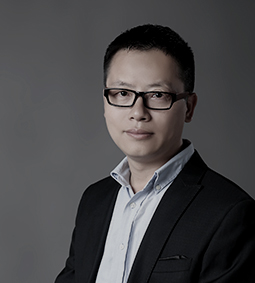
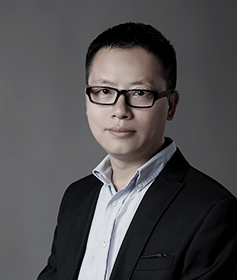
更改管理团队人物

diff --git a/src/index.html b/src/index.html
@@ -86,44 +86,54 @@
               <div class="swiper-container">
                 <div class="swiper-wrapper">
                   <div class="swiper-slide">
-                    <div class="conts">
+                    <a href="http://www.sohu.com/a/198154578_251755" class="link-url" target="_blank">
+                      <div class="conts">
                       <p class="header">2017-10-13</p>
                       <p class="info">
                         信披标准再次提升 领投鸟助力金融行业提升透明化
                       </p>
                     </div>
+                    </a>
                   </div>
                   <div class="swiper-slide">
-                    <div class="conts">
+                    <a href="http://wemedia.ifeng.com/32184321/wemedia.shtml" class="link-url" target="_blank">
+                      <div class="conts">
                       <p class="header">2017-10-13</p>
                       <p class="info">
                         领投鸟受邀参加融资中国2017（第四届）金融科技创新峰会
                       </p>
                     </div>
+                    </a>
                   </div>
                   <div class="swiper-slide">
-                    <div class="conts">
+                    <a href="http://gx.sina.com.cn/waibao/hangye/2017-09-11/detail_wb-ifykuffc5020269.shtml" class="link-url" target="_blank">
+                      <div class="conts">
                       <p class="header">2017-10-13</p>
                       <p class="info">
                         宁波广电集团携手领投鸟共同举办广场舞大赛
                       </p>
                     </div>
+                    </a>
                   </div>
                   <div class="swiper-slide">
-                    <div class="conts">
+                    <a href="http://finance.huanqiu.com/roll/2017-08/11131128.html" class="link-url" target="_blank">
+                      <div class="conts">
                       <p class="header">2017-10-13</p>
                       <p class="info">
                         主打高品质丰富配套，红糖公寓进军租房市场
                       </p>
                     </div>
+                    </a>
                   </div>
                   <div class="swiper-slide">
-                    <div class="conts">
+                    <a href="http://www.toutiao.com/i6442500127666995725/" class="link-url" target="_blank">
+                      <div class="conts">
                       <p class="header">2017-10-13</p>
                       <p class="info">
                         2017朗迪金融科技峰会蓄势待发 领投鸟受邀共同探讨行业新趋势
                       </p>
                     </div>
+                    </a>
                   </div>
                 </div>
                 <!-- Add Pagination -->
@@ -172,5 +182,8 @@
     <!-- build:js1  js/index.js-->
     <script src="./js/index.js" charset="utf-8"></script>
     <!-- endbuild -->
+    <script type="text/javascript">
+
+    </script>
   </body>
 </html>

diff --git a/src/html/team.html b/src/html/team.html
@@ -81,7 +81,7 @@
             </div>
           </div>
         </div>
-        <div class="item title">
+        <div class="title">
           <img src="./imgs/newTeam/tit.png" alt="">
         </div>
         <div class="item fjy">
@@ -139,7 +139,7 @@
           <div class="person-info">
             上海理工大学计算机应用硕士，<br/>毕业后先后任职于百度、阿里巴巴、腾讯累计十年，<br/>
             2014年创立诺亚财富互联网金融子公司财富派，<br/>累计规模超过500亿人民币，<br/>
-            2017年加入红糖集团。
+            2015年加入红糖集团。
           </div>
           <div class="post">
             <div class="post-wp">
@@ -172,11 +172,13 @@
         <div class="item pyd">
           <img src="./imgs/newTeam/pyd.jpg" alt="">
           <div class="person-info">
-            潘一丁
+            电子科技大学管理学学士，工学学士，<br>
+            8年上市商业银行工作经验，5年销售管理经验，<br>
+            曾任职商业银行支行行长，区域总经理，擅长塑造狼性团队。
           </div>
           <div class="post">
             <div class="post-wp">
-              <p class="name">潘一丁</p>潘一丁
+              <p class="name">潘一丁</p>高级销售总监
             </div>
           </div>
         </div>
@@ -194,22 +196,25 @@
         <div class="item yangyang">
           <img src="./imgs/newTeam/yangyang.jpg" alt="">
           <div class="person-info">
-            杨杨
+            上海交通大学，<br>
+            9年互联网从业经验，<br>
+            4年互联网产品管理经验，<br>
+            曾就职于腾讯、诺亚、平安等知名公司。
           </div>
           <div class="post">
             <div class="post-wp">
-              <p class="name">杨杨</p>杨杨
+              <p class="name">杨杨</p>高级产品总监
             </div>
           </div>
         </div>
         <div class="item hqm">
-          <img src="./imgs/newTeam/hqm.jpg" alt="">
+          <img src="./imgs/newTeam/hbl.jpg" alt="">
           <div class="person-info">
-            胡乔木
+            侯保磊
           </div>
           <div class="post">
             <div class="post-wp">
-              <p class="name">胡乔木</p>胡乔木
+              <p class="name">侯保磊</p>侯保磊
             </div>
           </div>
         </div>

diff --git a/src/sass/team2.scss b/src/sass/team2.scss
@@ -125,12 +125,13 @@
       transform: translate(-100%,0);
       width: 100%;
       height:100%;
-      background-color: #fff;
+      background-color: #955f44;
+      color: #fff;
       box-sizing: border-box;
       -webkit-box-sizing: border-box;
-      padding: 30px 25px 0 25px;
+      padding: 20px 25px 0 25px;
       font-size: 14px;
-      line-height: 200%;
+      line-height: 160%;
     }
     .post {
       font-size: 14px;
@@ -151,10 +152,11 @@
     }
   }
   .zby {
-    left: 375px;
-    top:0;
+    left: 349px;
+    top:110px;
   }
   .title {
+    position: absolute;
     left: 0;
     top:236px;
   }
@@ -168,11 +170,11 @@
     top:252px;
   }
   .czx {
-    left:1px;
+    left:50px;
     top:554px;
   }
   .zrr {
-    left: 283px;
+    left: 330px;
     top:550px;
     z-index: 11;
   }
@@ -182,12 +184,15 @@
     z-index: 44;
   }
   .ns {
-    top:898px;
-    left:636px;
+    // top:898px;
+    // left:636px;
+    // z-index: 33;
+    left: 460px;
+    top:1210px;
     z-index: 33;
   }
   .yy {
-    top:963px;
+    top:930px;
     left: 265px;
     z-index: 22;
   }
@@ -202,14 +207,17 @@
     z-index: 11;
   }
   .yangyang {
-    left: 500px;
-    top:1210px;
-    z-index: 22;
+    top:898px;
+    left:636px;
+    z-index: 33;
+    // left: 500px;
+    // top:1210px;
+    // z-index: 22;
   }
   .hqm {
-   top:1145px;
+   top:1190px;
    left:835px;
-   z-index: 44;
+   z-index: 33;
   }
   .ljd  {
     top:1490px;

diff --git a/src/sass/index.scss b/src/sass/index.scss
@@ -125,6 +125,10 @@ html,body {
         margin-left: 6px;
       }
     }
+    .link-url {
+      display: block;
+      color: #fff;
+    }
   }
 }
 .swiper-container {
